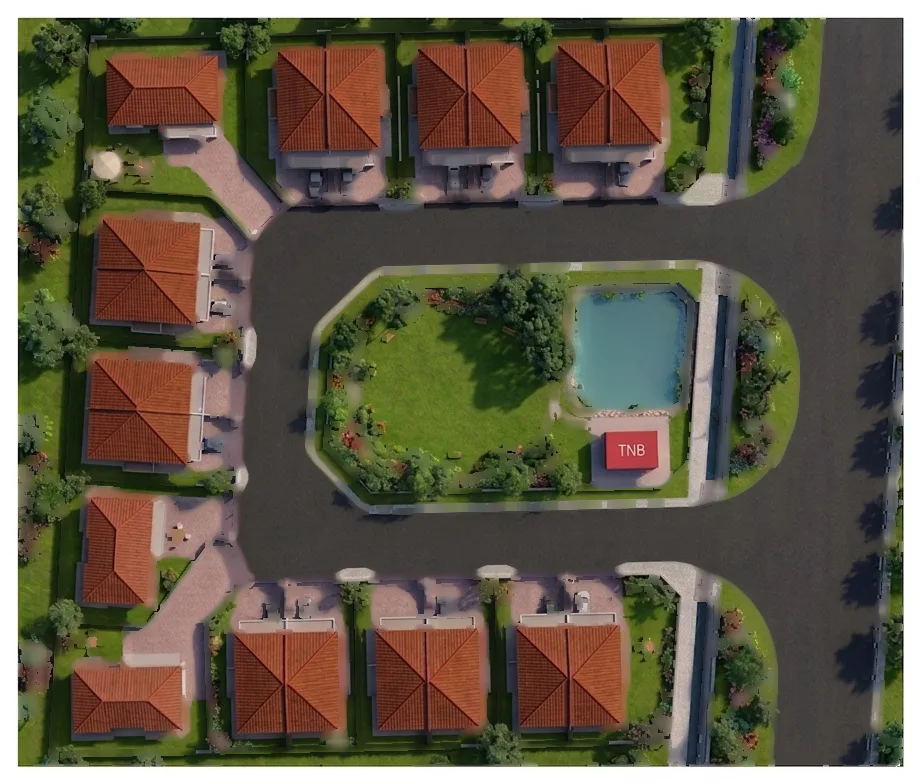
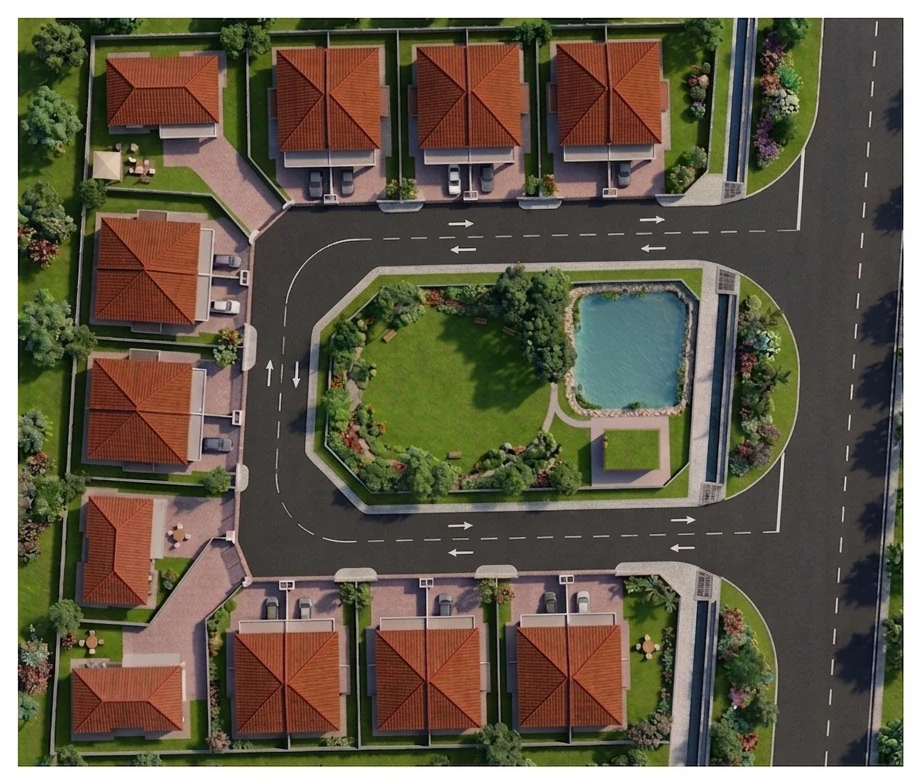
Restore original hero aerial render; only paint out the TNB box
The hero render had been over-edited (median-filter arrow/lane-marking
removal left smudgy roads). Restored the original crisp render from git
(d814829) and did a single minimal edit: cloned clean lawn over the red
TNB box so it's gone without the heavy smudging. Regenerated the WebP at
higher quality (was over-compressed). webp v6 -> v7.

diff --git a/index.html b/index.html
@@ -46,7 +46,7 @@
 <meta name="twitter:image:alt" content="Panthera Bertam, bungalow artist's impression">
 
 <!-- Performance: preload critical above-the-fold assets -->
-<link rel="preload" as="image" href="assets/site-render-aerial.webp?v=6" fetchpriority="high">
+<link rel="preload" as="image" href="assets/site-render-aerial.webp?v=7" fetchpriority="high">
 <link rel="preload" as="image" href="assets/panthera-logo-full.png">
 
 <!-- Fonts -->
@@ -325,7 +325,7 @@
       </div>
 
       <figure class="hero-art" data-reveal>
-        <img src="assets/site-render-aerial.webp?v=6" width="920" height="784" alt="Aerial view of Panthera Bertam, nineteen homes around the shared central green and pond" fetchpriority="high">
+        <img src="assets/site-render-aerial.webp?v=7" width="920" height="784" alt="Aerial view of Panthera Bertam, nineteen homes around the shared central green and pond" fetchpriority="high">
         <figcaption class="mono" data-i18n="site.aerial.l">Artist's impression · aerial view from north</figcaption>
       </figure>
     </div>